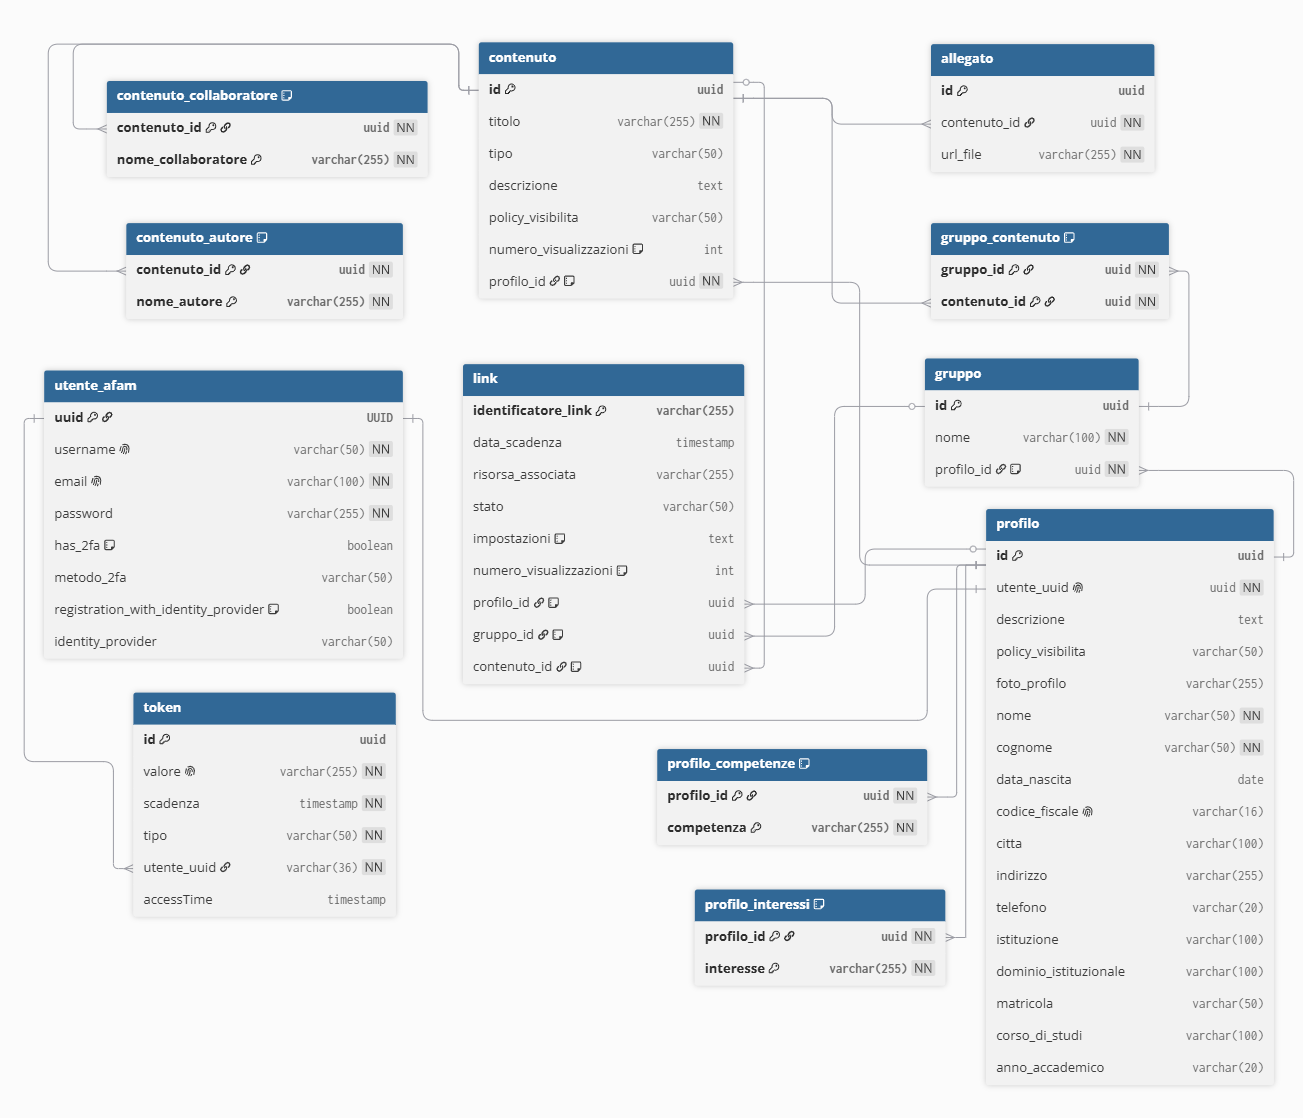
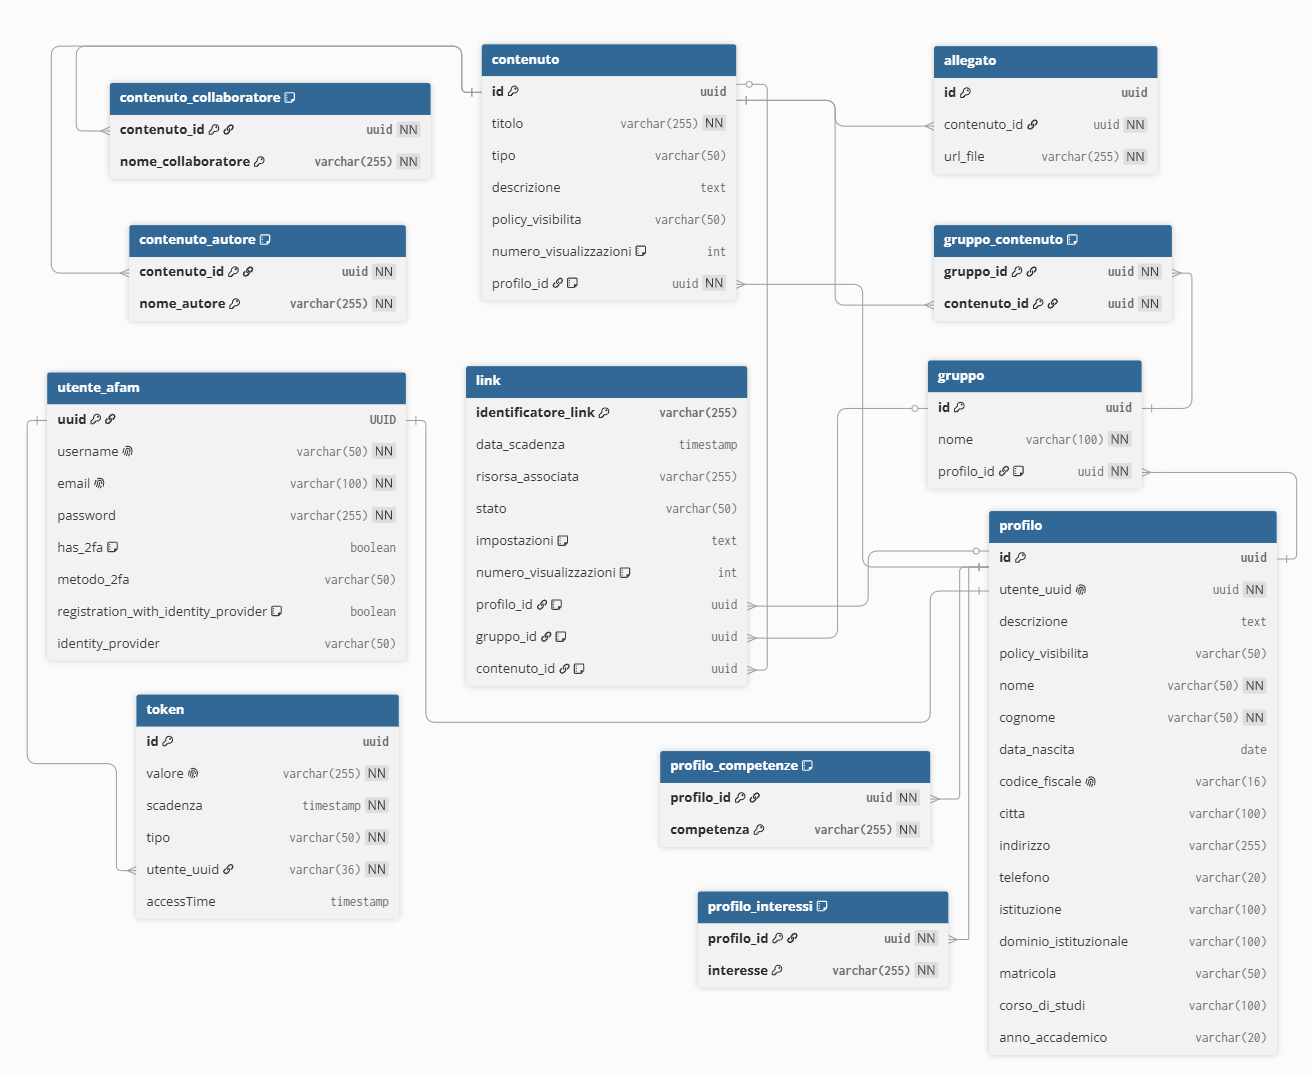
Deleted profil photo

diff --git a/backend/src/main/java/com/afam/identity/config/SecurityConfig.java b/backend/src/main/java/com/afam/identity/config/SecurityConfig.java
@@ -51,7 +51,7 @@ public class SecurityConfig {
             .sessionManagement(session -> session.sessionCreationPolicy(SessionCreationPolicy.STATELESS))
             .authorizeHttpRequests(auth -> auth
                 // Rotte pubbliche
-                .requestMatchers("/api/auth/**", "/api/registration/**", "/api/recovery/**").permitAll()
+                .requestMatchers("/api/auth/**", "/api/registration/**", "/api/recovery/**", "/error").permitAll()
                 .requestMatchers("/api/links/shared/**").permitAll() // Rende i link di condivisione accessibili al pubblico
                 
                 // Rotte permesse sia ad AFAM che GUEST (Ricerca e visualizzazione)